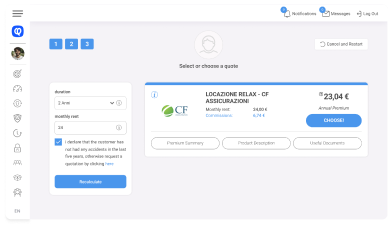
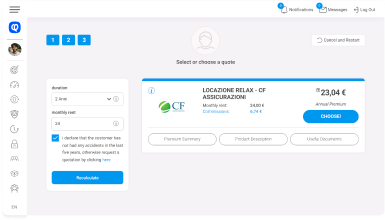
change solutions

diff --git a/app/workspace/sass/_dev-2.scss b/app/workspace/sass/_dev-2.scss
@@ -124,16 +124,29 @@
 
     &__image{
         width: 100%;
+        padding-top: 51%;
         margin: 0 auto 33px;
         border-radius: 5px;
-        box-shadow: 0px 100px 80px 0px rgba(0, 0, 0, 0.07);
+        position: relative;
+        
+        &:before{
+            content: '';
+            width: auto;
+            height: auto;
+            position: absolute;
+            top: 15px;
+            left: 15px;
+            right: 15px;
+            bottom: 15px;
+            z-index: 1;
+            box-shadow: 0px 80px 45px 0px rgba(0, 0, 0, 0.09);
+        }
 
         img{
-            width: 100%;
-            height: 100%;
-            object-fit: contain;
+            position: relative;
+            z-index: 2;
+            @include imgAbsolute(100%, 100%, cover);
             border-radius: 5px;
-            overflow: hidden;
         }
     }
     &__title{
@@ -144,6 +157,8 @@
         display: flex;
         align-items: flex-start;
         justify-content: space-between;
+        position: relative;
+        z-index: 2;
 
         .slick-slide__mark{
             display: block;
@@ -309,7 +324,6 @@
         &__image{
             max-width: 382px;
             margin: 0 auto 32px;
-            box-shadow: 0 10px 30px 0 rgba(0,0,0,.1);
         }
         &__title{
             font-size: 28px;
